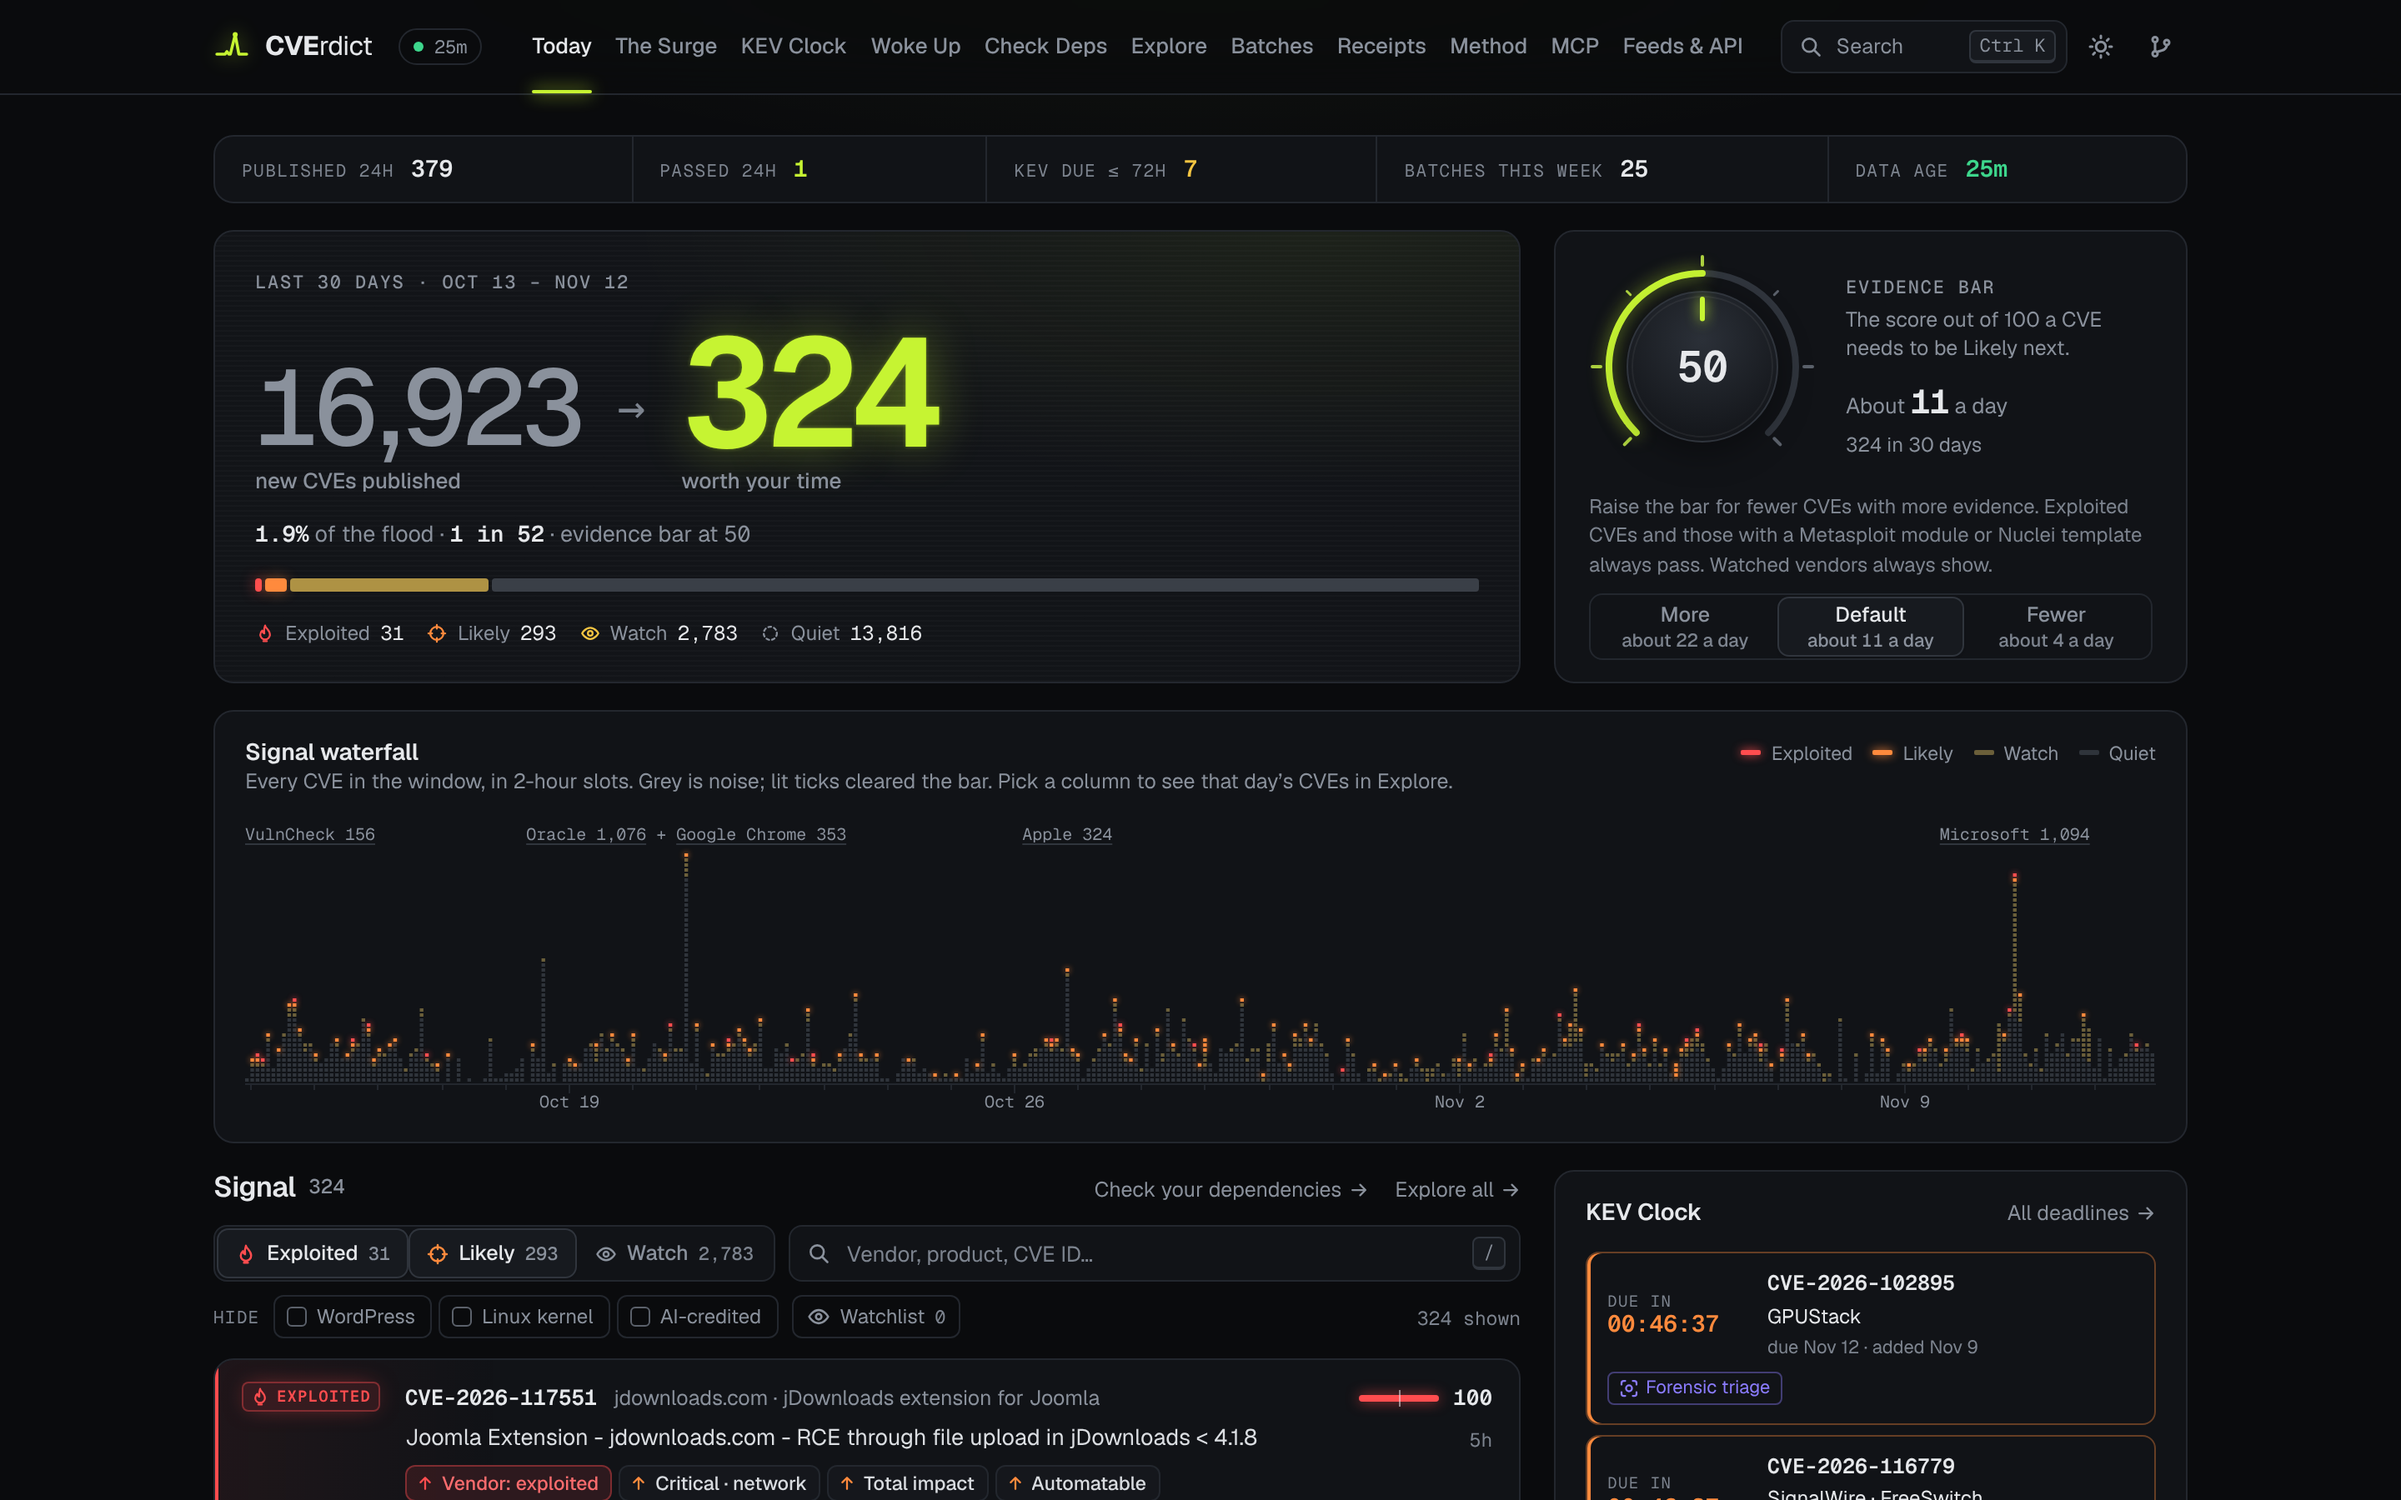
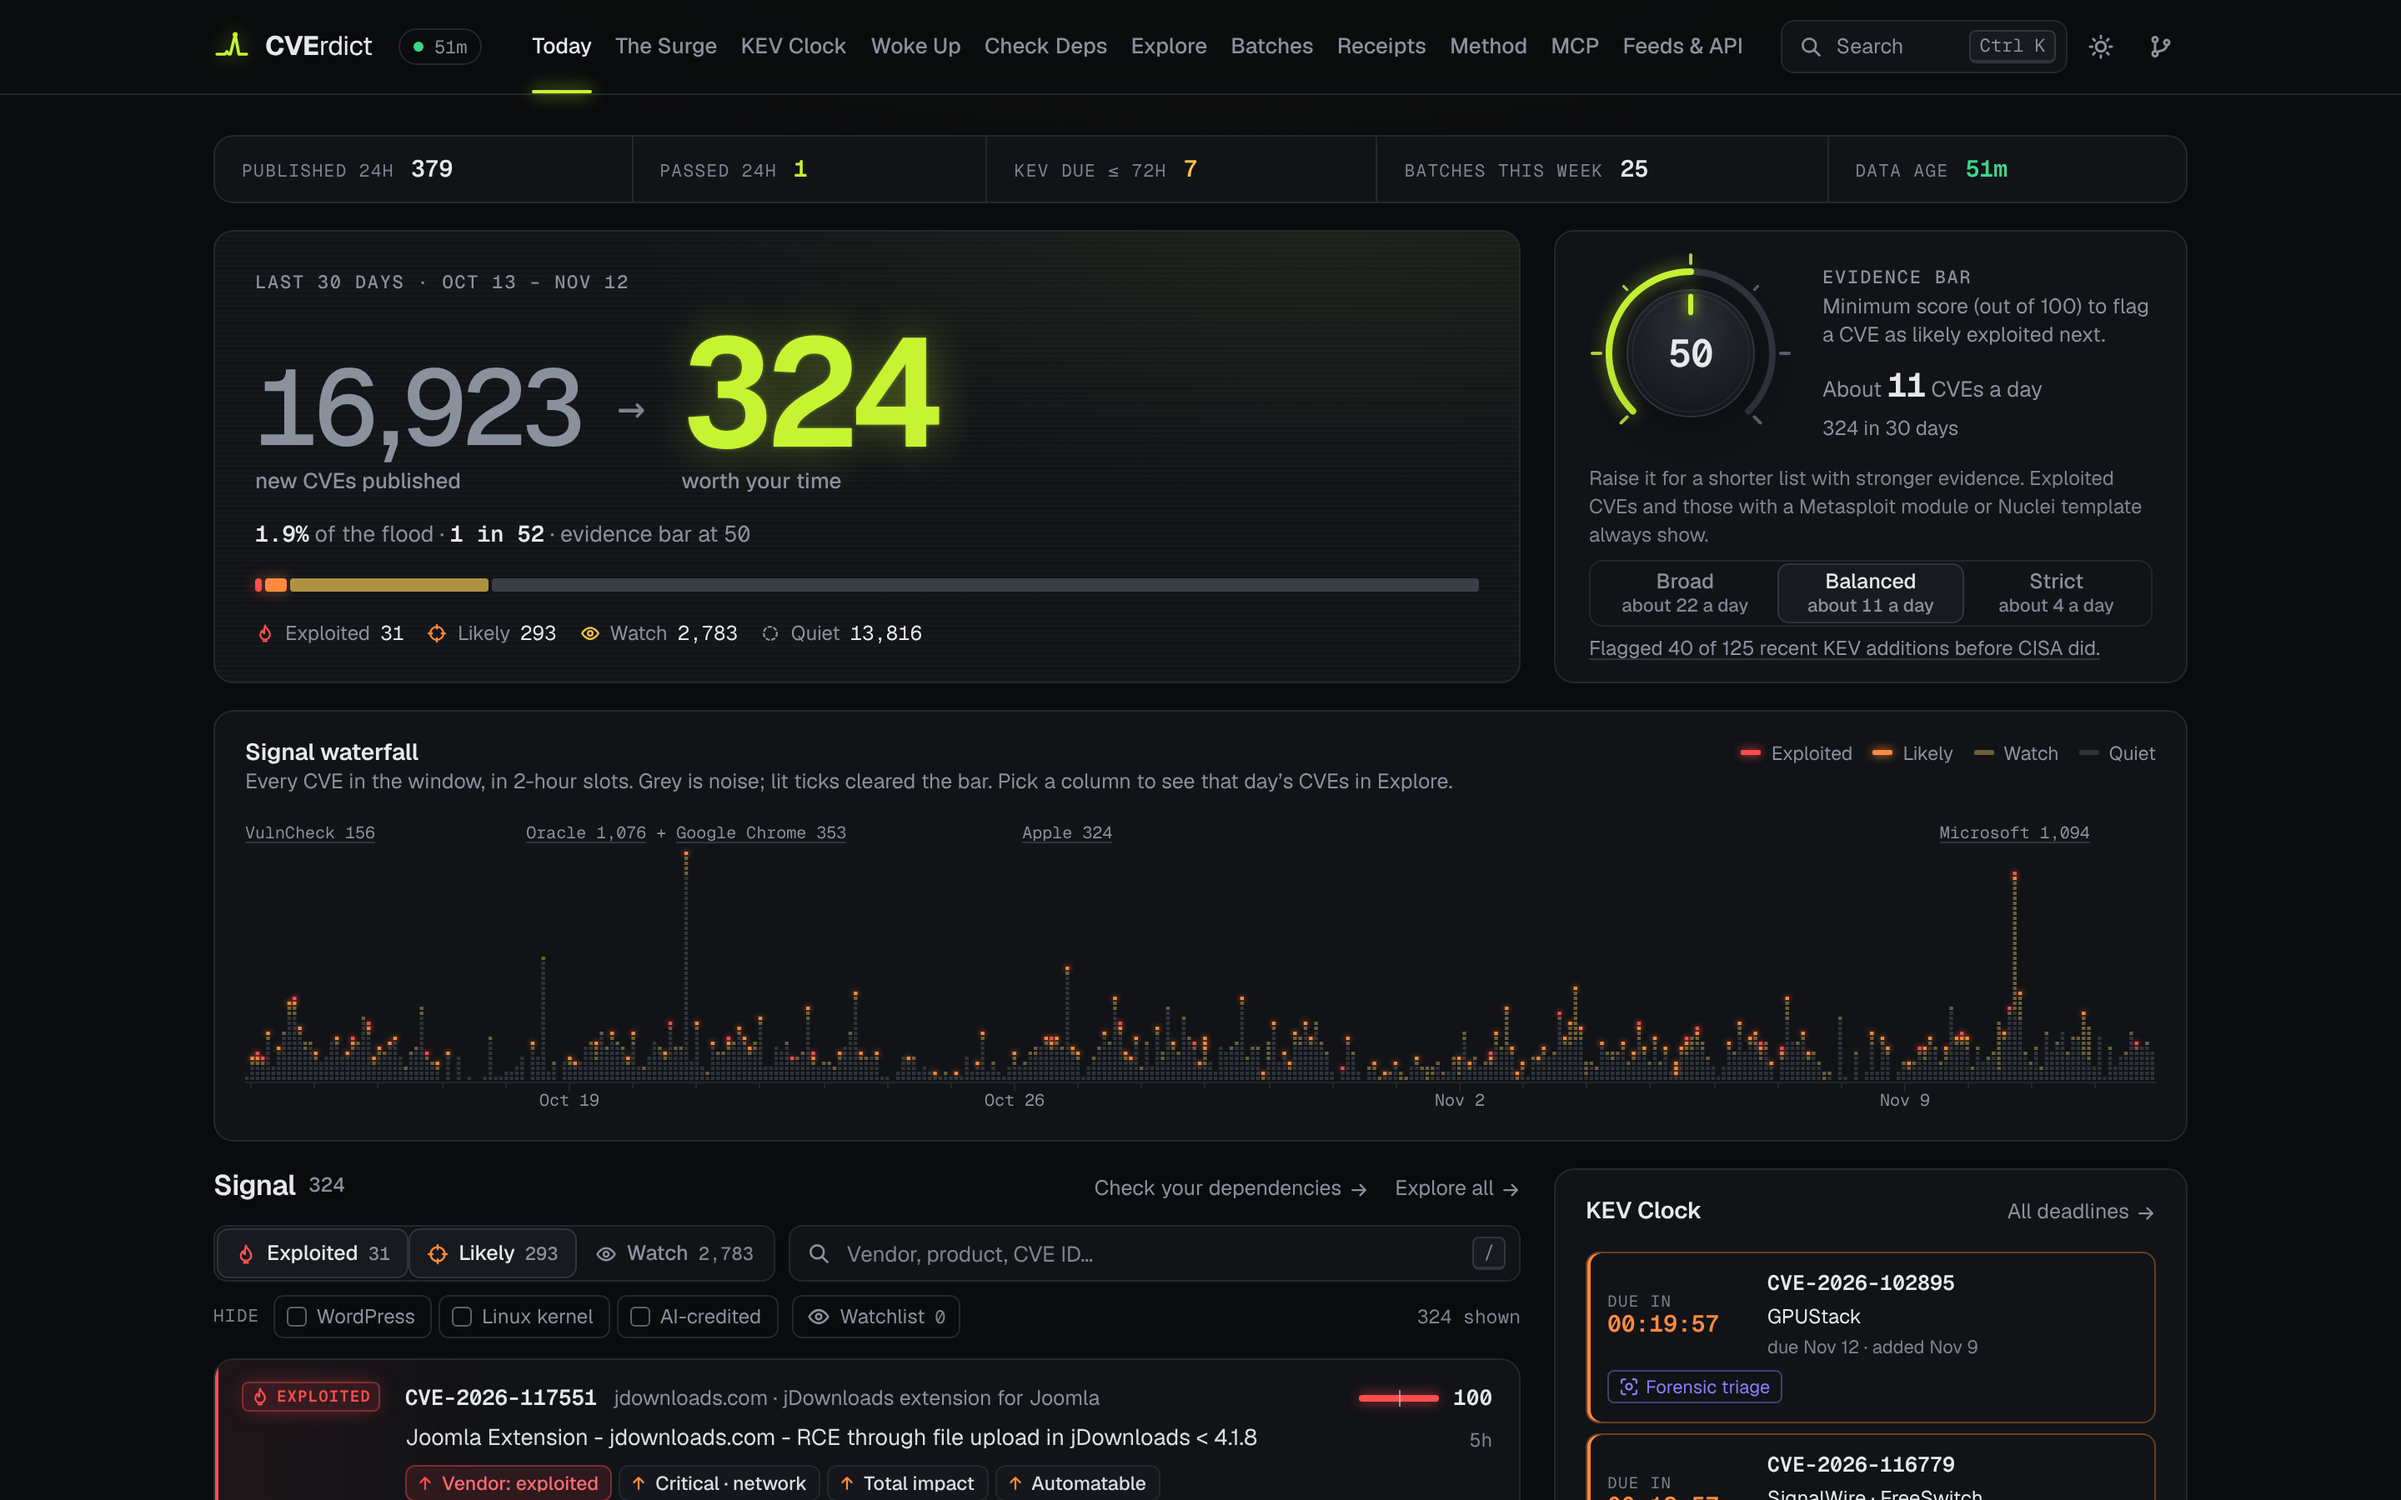
Fix review findings: a bad receipts.json no longer breaks the evidence bar, steady line height on failure, README screenshots

diff --git a/site/src/pages/Today.tsx b/site/src/pages/Today.tsx
@@ -172,11 +172,12 @@ function PresetCount({ day }: { day: { about: string; n: string } | null }) {
 
 /**
  * The backtest at the current bar: "Flagged 40 of 125 recent KEV additions before CISA did."
- * `undefined` while receipts.json loads (an empty line of the same height), `null` hides it.
+ * `undefined` while receipts.json loads and `null` when it failed or has no backtest: both keep an
+ * empty line of the same height, so nothing below moves once the file settles (it shows on phones,
+ * where the panel does not stretch to the hero).
  */
 function TrackRecord({ level, track }: { level: number; track: { flagged: number; n: number } | null | undefined }) {
-  if (track === null) return null;
-  if (track === undefined) return <p class="knobpanel__track" aria-hidden="true">{'\u00a0'}</p>;
+  if (!track) return <p class="knobpanel__track" aria-hidden="true">{'\u00a0'}</p>;
   return (
     <p class="knobpanel__track">
       <a
@@ -359,7 +360,16 @@ export default function Today() {
   // so it never competes with the rest of Today. Missing or without a backtest: the line hides.
   const receipts = useData(signal.status === 'ready' ? data.receipts : null);
   const track = useMemo(
-    () => (receipts.status === 'ready' ? backtestAt(receipts.data.backtest, level) : receipts.status === 'error' ? null : undefined),
+    () => {
+      if (receipts.status === 'error') return null;
+      if (receipts.status !== 'ready') return undefined;
+      // A side line must never break the evidence bar: any surprise in the file hides it.
+      try {
+        return backtestAt(receipts.data?.backtest, level);
+      } catch {
+        return null;
+      }
+    },
     [receipts, level],
   );
 

diff --git a/site/src/receipts.test.ts b/site/src/receipts.test.ts
@@ -81,9 +81,23 @@ describe('backtestAt (the track-record line on Today)', () => {
     }
   });
 
-  it('agrees with the stored strict verdict when that verdict came from the same rule', () => {
+  // Not proof of agreement with the pipeline (that is pipeline/test/model/backtest.test.ts, which runs
+  // runBacktest for real): this only pins that each recent item is counted once, by tierFor's rule.
+  it('counts each recent item once, by the tierFor pass rule', () => {
     const stored = items.map((i) => ({ ...i, strict: { ...i.strict, cverdict: i.chips.some((c) => ['kev.listed', 'ssvc.active', 'x.metasploit', 'x.nuclei'].includes(c)) || i.score >= KNOB_DEFAULT } }));
     expect(backtestAt(bt(stored), KNOB_DEFAULT)!.flagged).toBe(stored.filter((i) => !i.old && i.strict.cverdict).length);
+  });
+
+  it('survives malformed items instead of throwing', () => {
+    const good = item(90, []);
+    const noChips = { ...item(60, []), chips: null } as unknown as BacktestItem;
+    const lost = { ...item(40, ['kev.listed']) } as Partial<BacktestItem>;
+    delete lost.chips;
+    const noScore = { ...item(70, []), score: null } as unknown as BacktestItem;
+    const b = bt([good, noChips, lost as BacktestItem, noScore, null as unknown as BacktestItem]);
+    expect(() => backtestAt(b, 50)).not.toThrow();
+    // null chips count as none and a missing score as 0: only the two scores at or above 50 pass.
+    expect(backtestAt(b, 50)).toEqual({ flagged: 2, n: 4 });
   });
 
   it('is null (the line hides) without a backtest or without recent CVEs', () => {

diff --git a/site/src/receipts.ts b/site/src/receipts.ts
@@ -98,13 +98,16 @@ export function backtestMark(i: BacktestItem, m: ReceiptMethod): 'yes' | 'upper'
  */
 export function backtestAt(b: BacktestReceipts | null | undefined, knob: number): { flagged: number; n: number } | null {
   if (!b || !Array.isArray(b.items)) return null;
-  const recent = b.items.filter((i) => !i.old);
+  const recent = b.items.filter((i) => i && !i.old);
   if (recent.length === 0) return null;
   let flagged = 0;
   for (const i of recent) {
-    const exploited = i.chips.some((id) => CHIP_BY_ID[id]?.family === 'E');
-    const weaponized = i.chips.includes('x.metasploit') || i.chips.includes('x.nuclei');
-    const t = tierFor(i.score, exploited, weaponized, knob);
+    // A bad or older file must not break Today: missing chips count as none, a missing score as 0.
+    const chips: readonly string[] = Array.isArray(i?.chips) ? i.chips : [];
+    const score = Number.isFinite(i?.score) ? i.score : 0;
+    const exploited = chips.some((id) => CHIP_BY_ID[id]?.family === 'E');
+    const weaponized = chips.includes('x.metasploit') || chips.includes('x.nuclei');
+    const t = tierFor(score, exploited, weaponized, knob);
     if (t === 'exploited' || t === 'likely') flagged++;
   }
   return { flagged, n: recent.length };

diff --git a/README.md b/README.md
@@ -64,7 +64,7 @@ last 30 days gets a score from 0 to 100 and a tier:
 | **Watch** | Keep an eye on it. | Score from 25 up to the evidence bar |
 | **Quiet** | No evidence yet. **Quiet ≠ safe.** | Score below 25 |
 
-The **evidence bar** is the score out of 100 a CVE needs to be "Likely next". It defaults to 50 and
+The **evidence bar** is the minimum score (out of 100) to flag a CVE as likely exploited next ("Likely next"). It defaults to 50 and
 the site's dial runs from 35 to 65 (the API and MCP server accept 30 to 80, parameter `knob`). Lower
 it to see more, raise it for fewer CVEs with more evidence behind each; the page re-tiers live and
 the URL remembers your setting. [SCORING.md](docs/SCORING.md#tiers-and-the-evidence-bar) explains the range.
